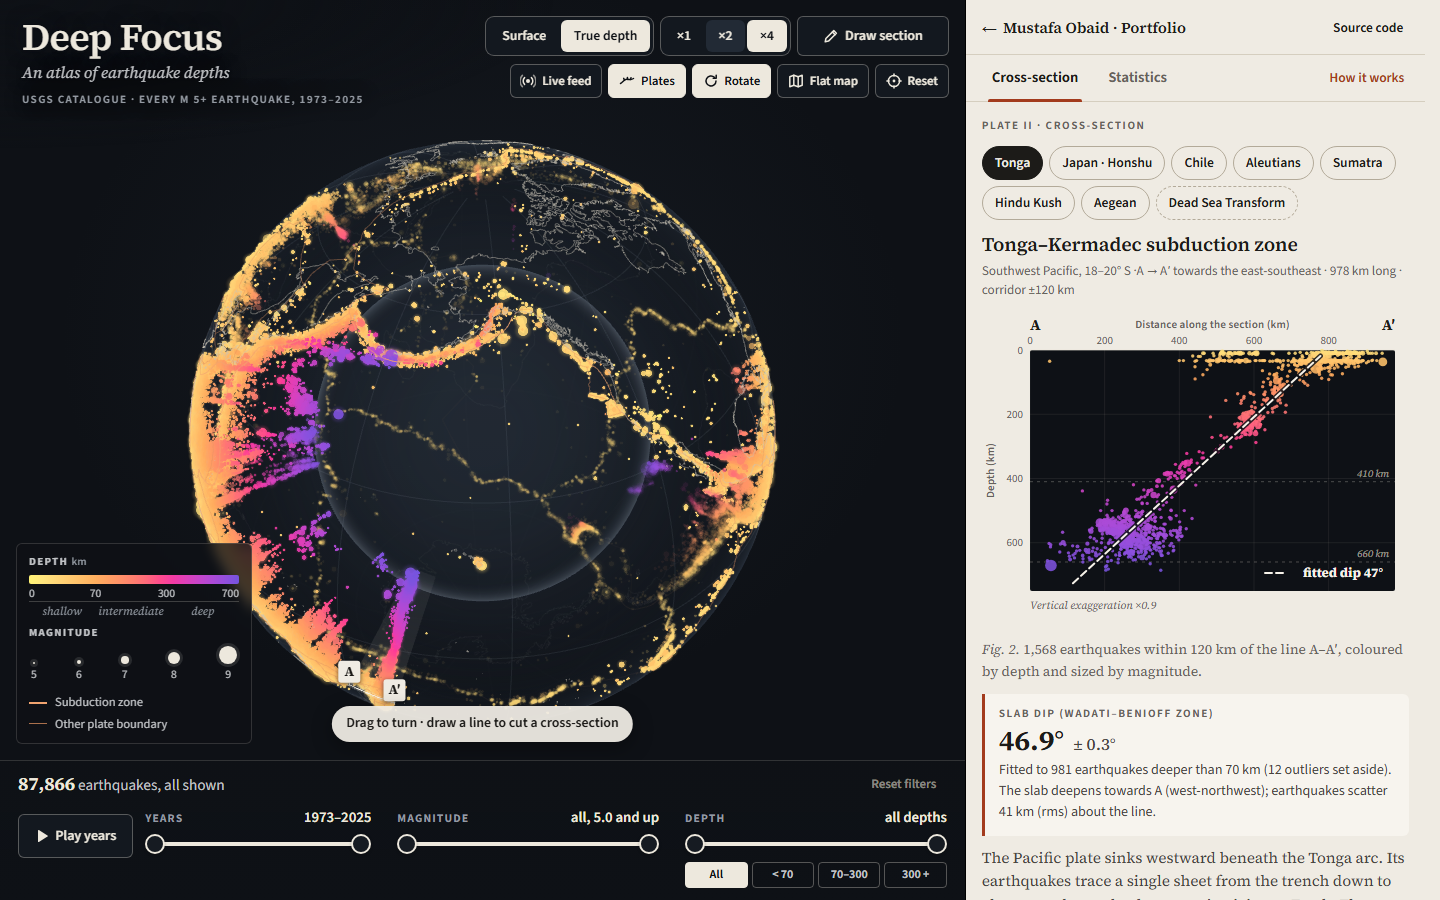
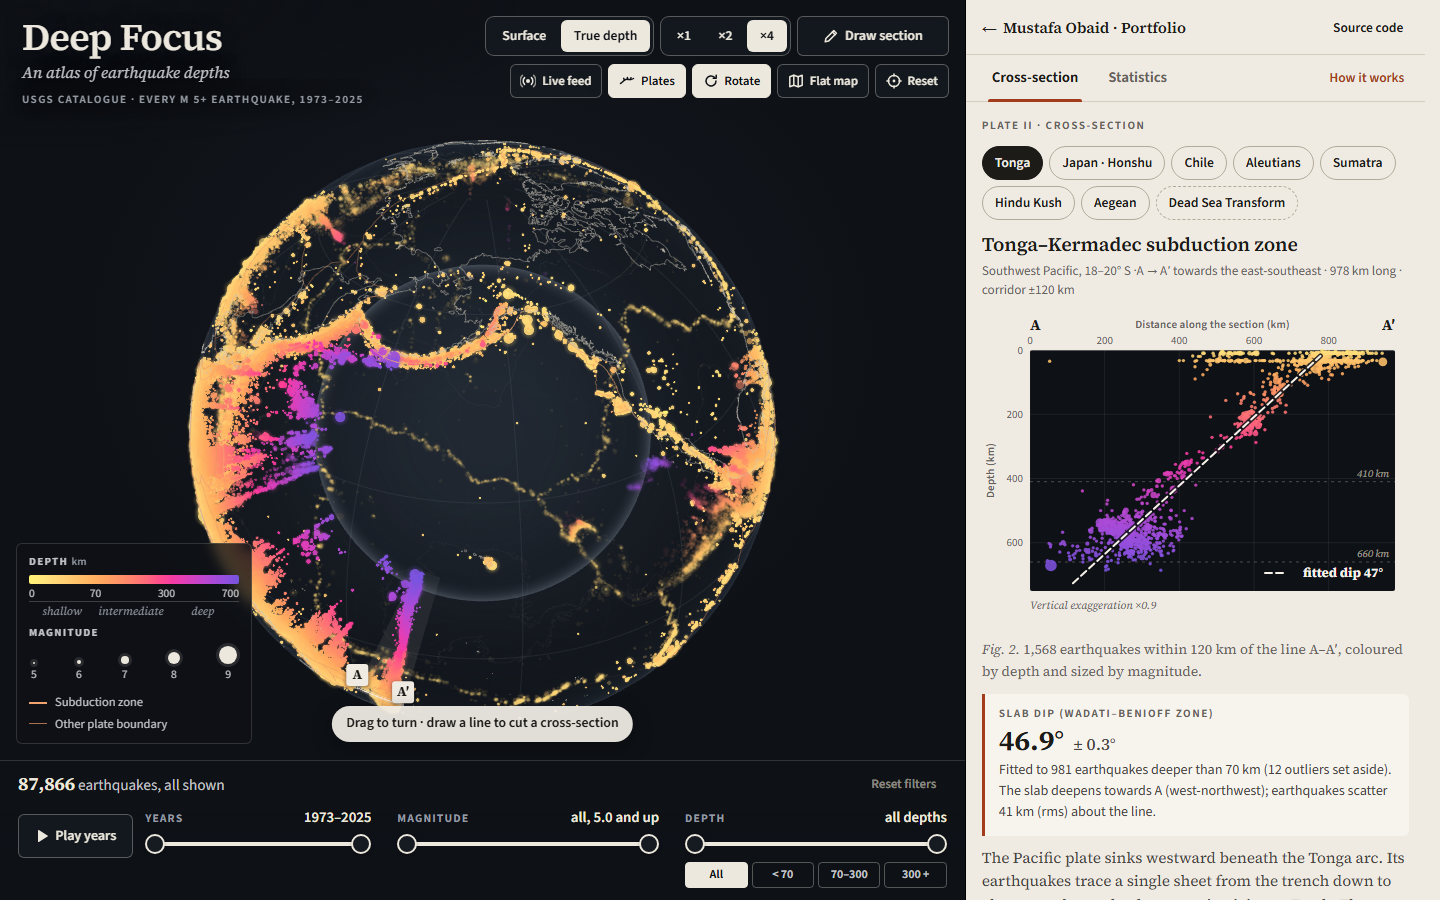
Keep the exaggeration control in place (disabled in surface mode) so the toolbar never shifts
Shorter draw label and wider tools on narrow stages; screenshots regenerated.

Changed region(s): [[0.125, 0.1556, 0.5625, 0.8089], [0.3125, 0.4978, 0.4062, 0.6222], [0.3438, 0.7778, 0.375, 0.8089]]

diff --git a/src/components/Toolbar.svelte b/src/components/Toolbar.svelte
@@ -127,13 +127,16 @@
         disabled={!isGlobe}
         title={isGlobe ? undefined : 'True depth needs the 3D globe'}
       />
-      {#if app.depthMode && isGlobe}
-        <Segmented
-          label="Vertical exaggeration"
-          options={exagOptions}
-          bind:value={app.exaggeration}
-        />
-      {/if}
+      <!-- Always present (disabled in surface mode) so switching modes never shifts the toolbar. -->
+      <Segmented
+        label="Vertical exaggeration"
+        options={exagOptions}
+        bind:value={app.exaggeration}
+        disabled={!app.depthMode || !isGlobe}
+        title={app.depthMode && isGlobe
+          ? undefined
+          : 'Vertical exaggeration applies in true-depth mode'}
+      />
       <button
         class="btn draw"
         type="button"
@@ -142,7 +145,8 @@
         title="Drag across the map to cut a cross-section (or hold Shift while dragging)"
       >
         <Icon name="pencil" />
-        <span>{app.drawMode ? 'Drawing… drag on the map' : 'Draw section'}</span>
+        <span class="lbl-long">{app.drawMode ? 'Drawing… drag on the map' : 'Draw section'}</span>
+        <span class="lbl-short" aria-hidden="true">{app.drawMode ? 'Drag…' : 'Section'}</span>
       </button>
     </div>
     <div class="row secondary">
@@ -227,9 +231,30 @@
     min-width: 9.5rem;
   }
 
+  .lbl-short {
+    display: none;
+  }
+
   /* On a narrow stage the secondary toggles become icon buttons; their text stays as the
      accessible name, and each keeps its tooltip. */
   @container stage (max-width: 820px) {
+    .wide .draw {
+      min-width: 0;
+    }
+
+    .wide .lbl-long {
+      position: absolute;
+      width: 1px;
+      height: 1px;
+      overflow: hidden;
+      clip: rect(0 0 0 0);
+      white-space: nowrap;
+    }
+
+    .wide .lbl-short {
+      display: inline;
+    }
+
     .wide .secondary :global(.btn) {
       width: 38px;
       padding: 0;

diff --git a/src/components/GlobeStage.svelte b/src/components/GlobeStage.svelte
@@ -881,6 +881,10 @@
     .masthead .scope {
       display: none;
     }
+
+    .tools {
+      max-width: calc(100% - 270px);
+    }
   }
 
   @media (min-width: 700px) and (max-width: 1099px) {
